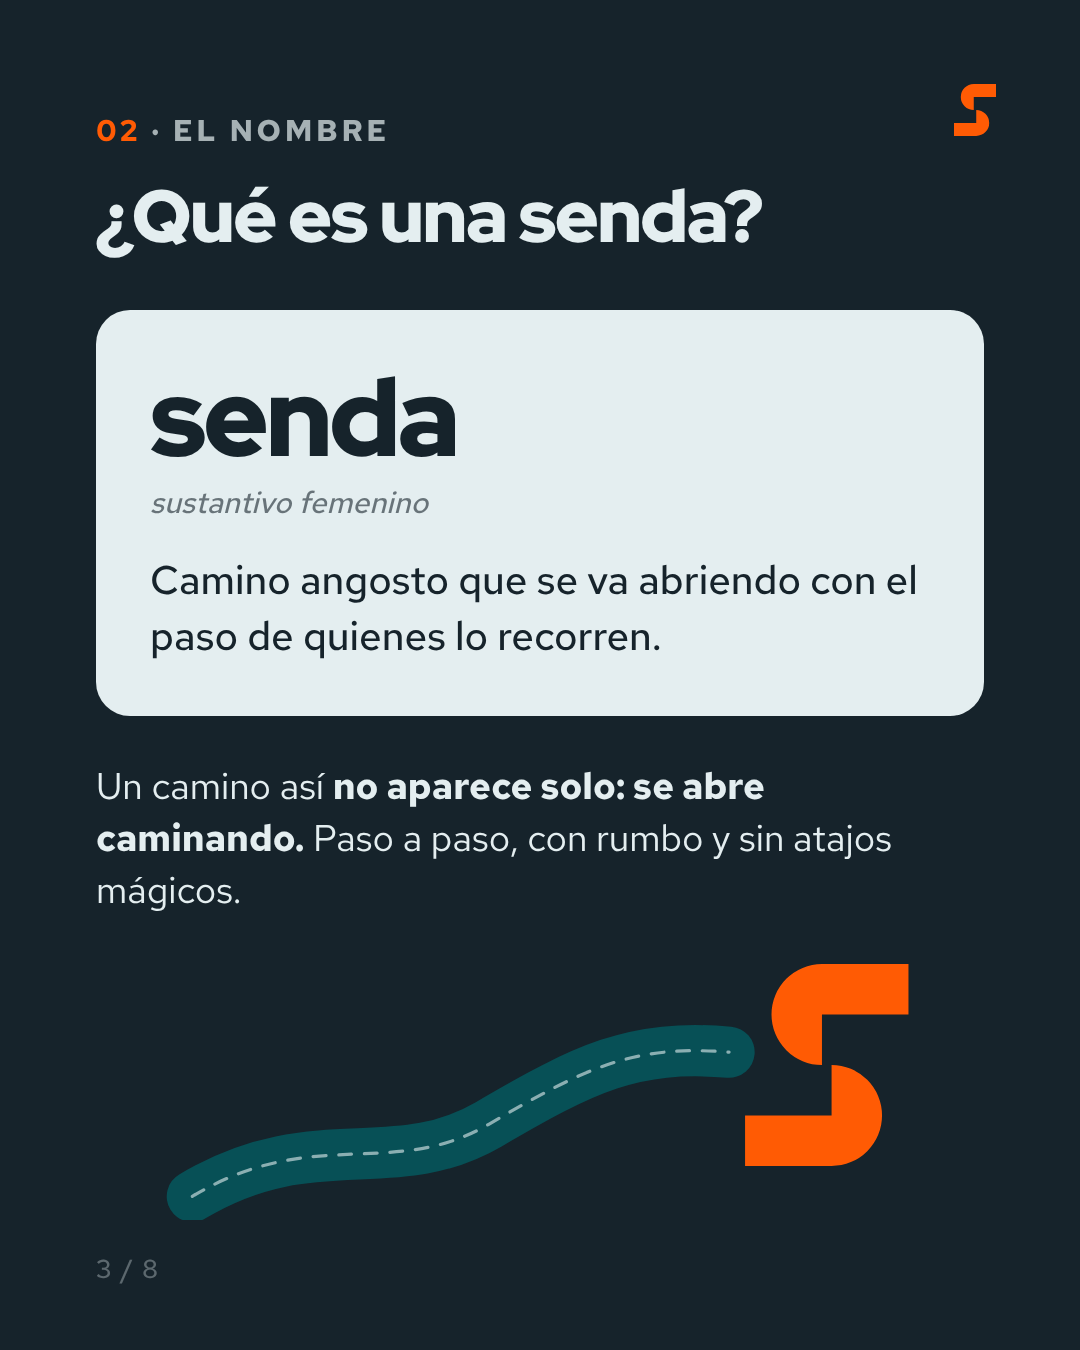
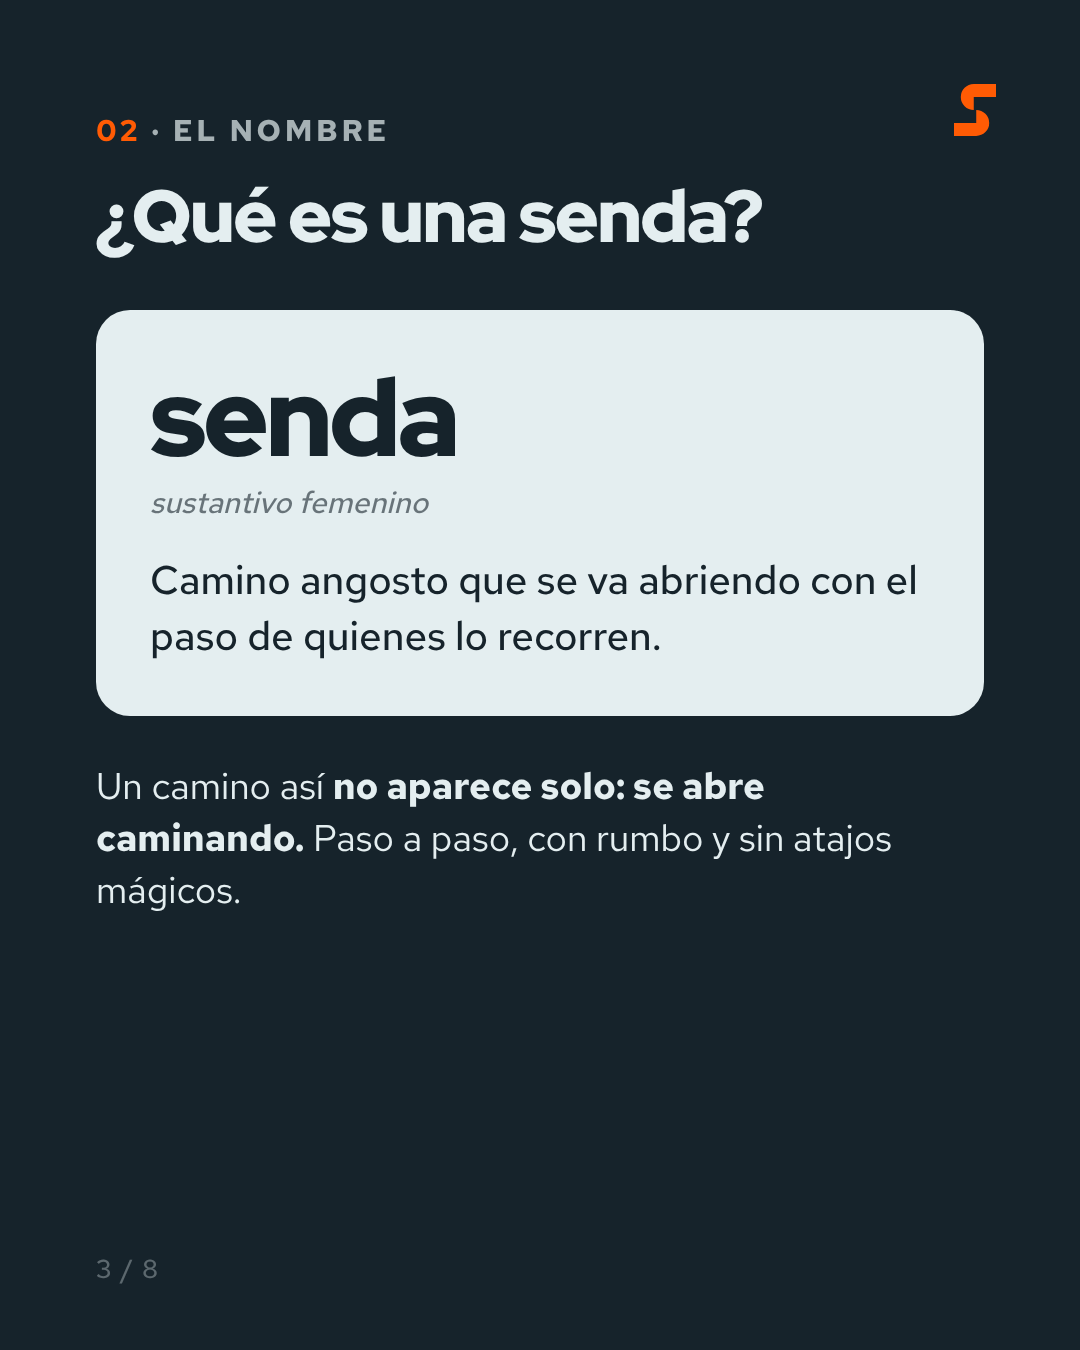
Senda inauguración: slide del nombre vuelve a la versión sin sendero
Claude-Session: https://claude.ai/code/session_01WWSseRZgkqPqXepmjapV3U

Changed region(s): [[0.1528, 0.7156, 0.8556, 0.9022]]

diff --git a/contenido/proyectos/senda-consultora/carruseles/inauguracion-senda/carrusel.html b/contenido/proyectos/senda-consultora/carruseles/inauguracion-senda/carrusel.html
@@ -155,11 +155,6 @@
   <div class="dict"><div class="w">senda</div><div class="g">sustantivo femenino</div>
     <div class="d">Camino angosto que se va abriendo con el paso de quienes lo recorren.</div></div>
   <p class="body" style="margin-top:44px">Un camino así <b>no aparece solo: se abre caminando.</b> Paso a paso, con rumbo y sin atajos mágicos.</p>
-  <svg viewBox="0 0 888 380" width="888" height="380" style="margin-top:auto">
-    <path d="M10 350 C 160 260, 260 330, 380 260 S 560 160, 680 170" fill="none" stroke="#075056" stroke-width="64" stroke-linecap="round"/>
-    <path d="M10 350 C 160 260, 260 330, 380 260 S 560 160, 680 170" fill="none" stroke="#E4EEF0" stroke-width="4" stroke-dasharray="16 16" stroke-linecap="round" opacity=".6"/>
-    <g transform="translate(700 60) scale(0.3)"><path fill="#FF5B04" d="M320 0 L680 0 L680 210 L320 210 Z M320 0 A210 210 0 0 0 320 420 Z M360 840 L0 840 L0 630 L360 630 Z M360 840 A210 210 0 0 0 360 420 Z"/></g>
-  </svg>
 </div>
 
 <div class="slide">

diff --git a/contenido/proyectos/senda-consultora/carruseles/inauguracion-senda/guion.md b/contenido/proyectos/senda-consultora/carruseles/inauguracion-senda/guion.md
@@ -8,7 +8,7 @@
 ## Slides (8)
 1. **Gancho:** "¿Sabés hacia dónde va tu pyme… o solo la estás empujando?" + ilustración: "Tu pyme" al final de un recorrido en zigzag con signos de pregunta.
 2. **01 · La diferencia:** Empujar (más horas, más ventas, el mismo caos) vs. Avanzar (saber hacia dónde, con qué recursos y cómo llegar). "No hace falta empujar más fuerte. Hace falta saber hacia dónde."
-3. **02 · El nombre:** "senda · sustantivo femenino: camino angosto que se va abriendo con el paso de quienes lo recorren" (definición propia). "Un camino así no aparece solo: se abre caminando." + sendero ilustrado que termina en la S.
+3. **02 · El nombre:** "senda · sustantivo femenino: camino angosto que se va abriendo con el paso de quienes lo recorren" (definición propia). "Un camino así no aparece solo: se abre caminando.".
 4. **03 · Para pensar:** "Preguntas que toda pyme tiene que poder responder" (estrategia, finanzas, factibilidad, mercado, datos, procesos). "Si dudaste en más de una: ahí está el punto de partida."
 5. **04 · Nuestro logo:** la S como camino que dobla: tramo 1 (dónde estás hoy), el giro (cambio de rumbo), tramo 2 (hacia dónde **vamos**, en naranja: lo caminamos juntos). "Ahí estamos."
 6. **05 · Cómo trabajamos:** "Así trabajamos, en 3 pasos": Diagnóstico (gratis) → Plan → Acompañamiento.
